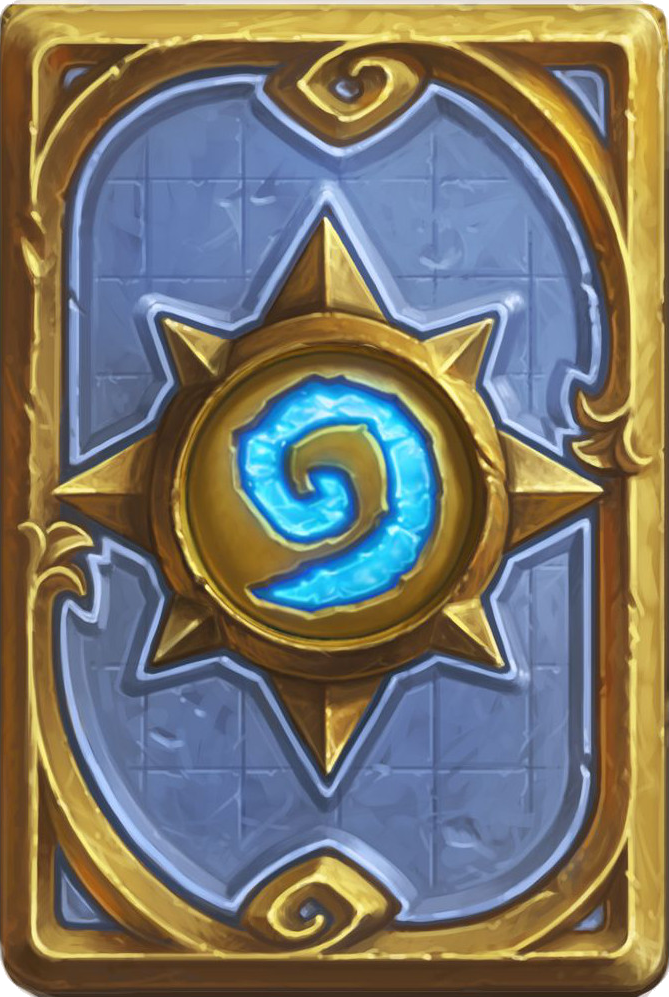
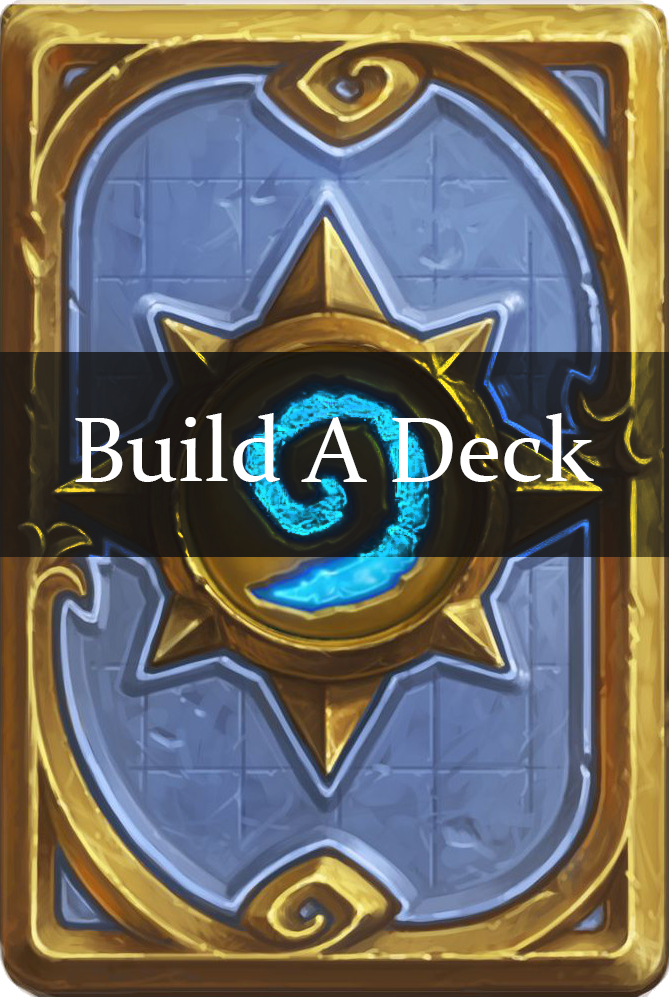
editing splash page

Changed region(s): [[0.0, 0.342, 1.0, 0.5597]]

diff --git a/client/src/components/Splash.js b/client/src/components/Splash.js
@@ -1,14 +1,16 @@
 import React from 'react'
 import { Grid, Segment } from 'semantic-ui-react'
 import CardBack from '../assets/CardBack.png'
-
+import { Link } from "react-router-dom";
 const DividerExampleVerticalForm = () => (
-  <Segment placeholder>
+  <Segment >
     <Grid columns={2} relaxed='very' stackable>
       <Grid.Column textAlign='center'>
     
+    <Link to='/heroselect'>
       <img style = {{marginLeft:'40px',width:'30vw', height:'90vh',minWidth:'400px' }} src={CardBack} alt = "">
       </img>
+      </Link>
    
       </Grid.Column>
 
